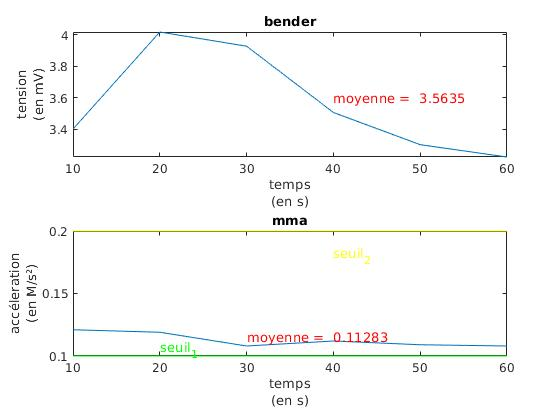
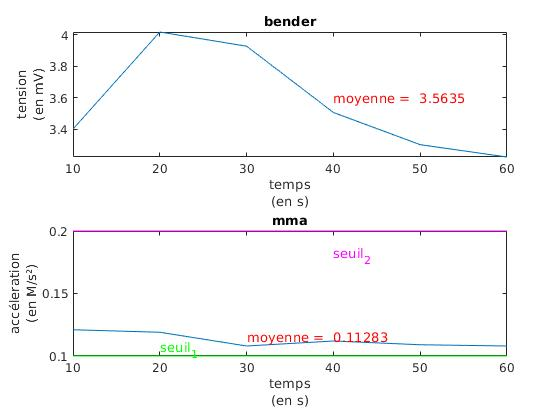
changement de couleur

Changed region(s): [[0.1214, 0.5262, 0.9107, 0.5571], [0.5768, 0.5881, 0.6679, 0.65]]

diff --git a/analyse_donnees/calibration.m b/analyse_donnees/calibration.m
@@ -49,8 +49,8 @@ seuil_1 = [0.1,0.1,0.1,0.1,0.1,0.1];
 plot(time(1 : end),seuil_1,'Color','g');
 text(20,0.105,'seuil_1','Color','g');
 seuil_2 = [0.2,0.2,0.2,0.2,0.2,0.2];
-plot(time(1 : end),seuil_2,'Color','y');
-text(40,0.18,'seuil_2','Color','y');
+plot(time(1 : end),seuil_2,'Color','m');
+text(40,0.18,'seuil_2','Color','m');
 hold off;
 xlabel({'temps','(en s)'});
 ylabel({'accéleration','(en M/s²)'});
@@ -100,8 +100,8 @@ seuil_1 = [0.1,0.1,0.1,0.1,0.1,0.1];
 plot(time(1 : end),seuil_1,'Color','g');
 text(30,0.15,'seuil_1','Color','g');
 seuil_2 = [0.2,0.2,0.2,0.2,0.2,0.2];
-plot(time(1 : end),seuil_2,'Color','y');
-text(40,0.25,'seuil_2','Color','y');
+plot(time(1 : end),seuil_2,'Color','m');
+text(40,0.25,'seuil_2','Color','m');
 xlabel({'temps','(en s)'});
 ylabel({'accéleration','(en M/s²)'});
 title('mma');
